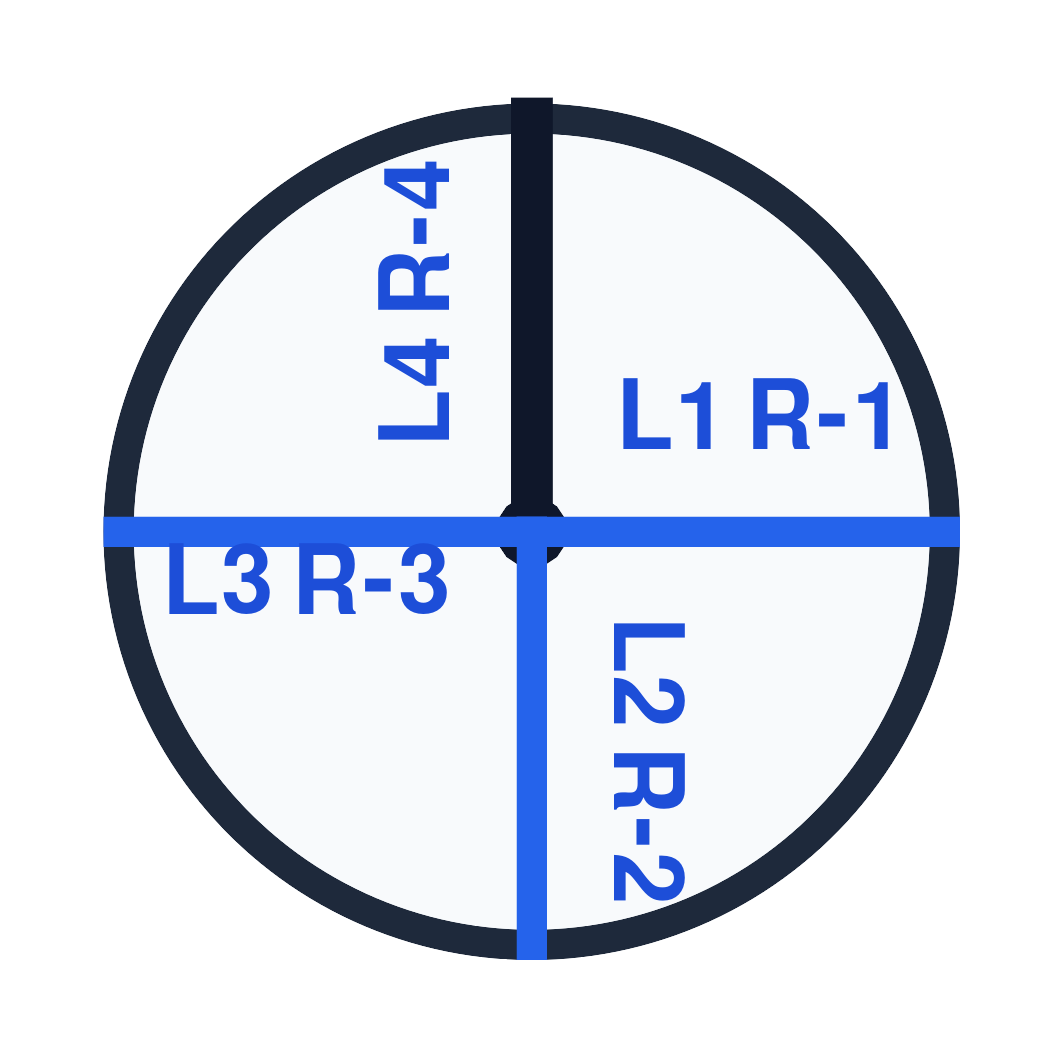
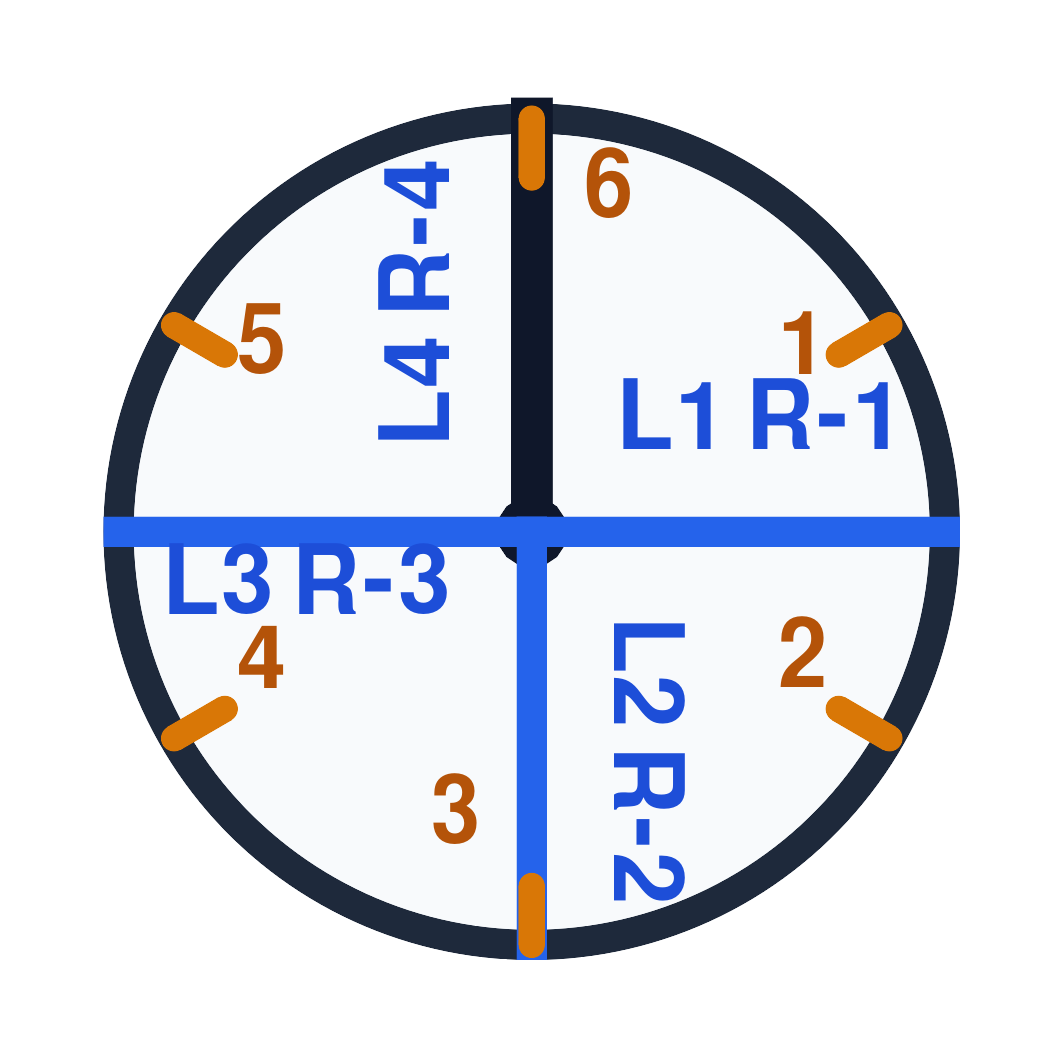
Apply rules updates: throw distance min(d6, strength), throw damage equals throw strength, and thrown orientation d6*60 deg clockwise with spin template ticks

diff --git a/rules/combat_robotics_game.tex b/rules/combat_robotics_game.tex
@@ -497,6 +497,17 @@ Movement units are found on the straight movement template. Where an effect says
     \draw[line width=1.3pt, draw=arenaRed] (12.2, 3.1) -- ++(-90:1.8cm) node[below=1pt, font=\footnotesize\bfseries, text=arenaRed] {L2 R-2 (180$^\circ$)};
     \draw[line width=0.9pt, draw=accentBlue] (12.2, 3.1) -- ++(180:1.8cm) node[left=2pt, font=\footnotesize\bfseries, text=accentBlue] {L3 R-3 (270$^\circ$)};
 
+    % 60-degree ticks at edges with numbers 1 to 6 for thrown robot orientation
+    \foreach \d/\ang in {1/30, 2/-30, 3/-90, 4/-150, 5/150, 6/90} {
+      \draw[line width=1.1pt, draw=amberNote] (12.2, 3.1) ++(\ang:1.55cm) -- ++(\ang:0.25cm);
+    }
+    \node[font=\scriptsize\bfseries, text=amberNote] at ($(12.2, 3.1) + (30:1.35cm)$) {1};
+    \node[font=\scriptsize\bfseries, text=amberNote] at ($(12.2, 3.1) + (-30:1.35cm)$) {2};
+    \node[font=\scriptsize\bfseries, text=amberNote] at ($(12.2, 3.1) + (-105:1.40cm)$) {3};
+    \node[font=\scriptsize\bfseries, text=amberNote] at ($(12.2, 3.1) + (-150:1.35cm)$) {4};
+    \node[font=\scriptsize\bfseries, text=amberNote] at ($(12.2, 3.1) + (150:1.35cm)$) {5};
+    \node[font=\scriptsize\bfseries, text=amberNote] at ($(12.2, 3.1) + (75:1.40cm)$) {6};
+
     % Ghost Bot B at start (centered on disc)
     \node at (12.2, 3.1) [rotate=0, opacity=0.4] {\includegraphics[width=4.5cm]{images/mini_bot_ghost_wide_line.png}};
     % End Bot B rotated 180 deg (facing South, opacity allows markings to show through)
@@ -632,7 +643,7 @@ Essentially a pushing match between colliding chassis surfaces:
   \item Move along templates until contact.
   \item Displace the remainder of robot A's template to the end of robot B's template.
   \item Move both robots along the straight line from the initial contact point to the end of A's displaced template (a raised robot's motion does not contribute).
-  \item If a robot is pushed into a wall, it is thrown with throw strength equal to the remaining distance of the move. If its weapon contacts the wall, it loses all spin counters and takes feedback $\lfloor \frac{\text{weapon strength} + \text{throw strength}}{2} \rfloor$. Because it has already hit the wall, the robot immediately takes throw damage equal to the full throw strength.
+  \item If a robot is pushed into a wall, it is thrown with throw strength equal to the remaining distance of the move. If its weapon contacts the wall, it loses all spin counters and takes feedback $\lfloor \frac{\text{weapon strength} + \text{throw strength}}{2} \rfloor$. The robot takes throw damage equal to the throw strength.
   \item If the robots are still touching, both robots are moved back a full unit to separate them.
 \end{enumerate}
 
@@ -718,6 +729,7 @@ When weapons collide with an opponent's chassis or components:
 \begin{itemize}
   \item All weapons involved in the contact are assumed to hit, and they deal damage according to their damage level to the single outermost component contacted (damage does not penetrate inwards).
   \item Then both robots are thrown away from the contact. The base throw strength received is equal to the attack damage minus the absorption of the hit component (minimum 0). Any additions to throw strength are added after that.
+  \item Thrown distance is $\min(\text{d6}, \text{throw strength})$. Thrown robot orientation after active contact is decided by throwing a dice and rotating that many $60^\circ$ steps clockwise (using the numbered ticks on the rim of the Spin Disc template).
   \item Weapons receive feedback equal to half the combined attack strength in the contact. A weapon contacting an arena wall loses all spin counters and takes feedback $\lfloor \frac{\text{weapon strength} + \text{throw strength}}{2} \rfloor$.
   \item If after active contact the robots are still in contact, proceed with inertial contact.
 \end{itemize}
@@ -726,9 +738,9 @@ When weapons collide with an opponent's chassis or components:
 \begin{tabularx}{\textwidth}{l X}
   \textbf{Contact Type} & \textbf{Resolution Mechanism} \\
   \midrule
-  \textbf{Active Contact} & Weapon strikes component $\rightarrow$ Deals damage to outermost component contacted $\rightarrow$ Base throw strength equals attack damage minus absorption of hit component (min 0) plus additions $\rightarrow$ Weapons take feedback equal to half combined attack strength. If robots are still in contact, proceed with inertial contact. \\
+  \textbf{Active Contact} & Weapon strikes component $\rightarrow$ Deals damage to outermost component contacted $\rightarrow$ Base throw strength equals attack damage minus absorption of hit component (min 0) plus additions $\rightarrow$ Weapons take feedback equal to half combined attack strength $\rightarrow$ Thrown distance is $\min(\text{d6}, \text{strength}) \rightarrow$ Thrown robot orientation rotates d6 $\times 60^\circ$ clockwise $\rightarrow$ Throw damage equals throw strength. If robots are still in contact, proceed with inertial contact. \\
   \addlinespace[3pt]
-  \textbf{Inert Contact} & Pushing match $\rightarrow$ Displace remainder of A's template to end of B's $\rightarrow$ Move along straight line from contact to end of displaced template $\rightarrow$ Wall collision causes throw (takes full throw damage) $\rightarrow$ If still touching, move both back a full unit to separate them. \\
+  \textbf{Inert Contact} & Pushing match $\rightarrow$ Displace remainder of A's template to end of B's $\rightarrow$ Move along straight line from contact to end of displaced template $\rightarrow$ Wall collision causes throw (takes throw damage equal to throw strength) $\rightarrow$ If still touching, move both back a full unit to separate them. \\
 \end{tabularx}
 \end{summarybox}
 
@@ -742,9 +754,10 @@ When weapons collide with an opponent's chassis or components:
 
 \subsection{Throws \& Inversion}
 
-A robot that is thrown is moved a random amount (2d6) up to the throw strength away from the contact point along the center-to-center line and rotated by spinning the model.
+A robot that is thrown is moved a distance equal to $\min(\text{d6}, \text{throw strength})$ away from the contact point along the center-to-center line.
+Robot orientation after active contact is decided by throwing a dice and rotating that many $60^\circ$ steps clockwise (using the numbered ticks on the rim of the Spin Disc template).
 If the throw strength minus the thrown distance is greater than the flip value of the chassis, the robot is \textbf{inverted} (lower rolled distances represent high-arching vertical throws rather than horizontal displacement).
-After the throw, the thrown robot takes throw damage at a randomly chosen component equal to half the throw strength (rounding up). If the robot is thrown into a normal wall, it instead takes throw damage equal to the full throw strength.
+After the throw, the thrown robot takes throw damage at a randomly chosen component equal to the throw strength.
 If the robot is pushed or thrown into a marked \textbf{Hazard Wall}, it is \textbf{immediately knocked out}.
 The component is chosen randomly by dropping a die onto the robot and seeing which component it lands on.
 
@@ -773,7 +786,7 @@ The component is chosen randomly by dropping a die onto the robot and seeing whi
     % Thrown Bot B
     \node at (7.2, 4.4) [rotate=50] {\includegraphics[width=1.75cm]{images/mini_bot_ghost_triangle_line.png}};
     \draw[-{Stealth[length=2.5mm]}, line width=1.5pt, draw=accentBlue] (7.9, 3.9) arc (-40:120:0.6);
-    \node[font=\scriptsize\bfseries, text=accentBlue] at (8.3, 4.7) {Model Spin};
+    \node[font=\scriptsize\bfseries, text=accentBlue] at (8.3, 4.7) {d6 $\times 60^\circ$ Rotation};
 
     % PANEL 2: Hazard Wall Elimination
     \draw[fill=white, draw=boxBorder, line width=0.8pt, rounded corners=3pt] (10.2, 1.4) rectangle (16.2, 5.8);
@@ -904,9 +917,9 @@ to each component that supplies it, shared equally if there are multiple compone
 \begin{itemize}[leftmargin=*, itemsep=1.5pt, topsep=1pt, parsep=0pt]
   \item \textbf{Direct Weapon Damage:} Weapon strike damage applies only to the single outermost component hit; excess damage does not penetrate inwards (throw shock covers internals).
   \item \textbf{Damage Conditions:} Damage $\ge$ durability $\implies$ \textbf{Destroyed}. Damage $\ge \frac{1}{2}$ durability $\implies$ \textbf{Damaged}. Absorption reduces base throw strength received during attacks.
-  \item \textbf{Throw Damage:} Throw damage equals half the throw strength (rounding up), unless the robot hits a wall (which inflicts full throw strength).
+  \item \textbf{Throw Distance \& Damage:} Thrown distance is $\min(\text{d6}, \text{throw strength})$. Thrown robot orientation rotates d6 $\times 60^\circ$ clockwise. Throw damage is always equal to the throw strength.
   \item \textbf{Separation:} If robots are still touching after contact resolution, both robots are moved back a full unit to separate them.
-  \item \textbf{Wall Collisions:} Driving into a wall stops the robot without a throw, but any contacting weapon takes feedback $\lfloor \frac{\text{weapon strength}}{2} \rfloor$. Robots thrown into walls take throw damage equal to full throw strength. Robots pushed into walls are thrown with throw strength equal to remaining distance, take weapon feedback if a weapon hits the wall, and take throw damage equal to full throw strength.
+  \item \textbf{Wall Collisions:} Driving into a wall stops the robot without a throw, but any contacting weapon takes feedback $\lfloor \frac{\text{weapon strength}}{2} \rfloor$. Robots pushed into walls are thrown with throw strength equal to remaining distance, take weapon feedback if a weapon hits the wall, and take throw damage equal to throw strength.
   \item \textbf{Feedback Backward Propagation:} Reverse flow from component back into power/pressure suppliers, distributed equally (rounding up).
 \end{itemize}
 \end{summarybox}

diff --git a/playtest/engine/combat.py b/playtest/engine/combat.py
@@ -944,15 +944,15 @@ def resolve_inert_contact(
 
             logs.append(CombatLogEntry(
                 round=round_num, phase="collision",
-                message=f"💥 {pushed_into_wall_robot.name} was pushed into the wall! THROWN with throw strength {wall_throw_str}! (Takes full throw damage {wall_throw_str})",
+                message=f"💥 {pushed_into_wall_robot.name} was pushed into the wall! THROWN with throw strength {wall_throw_str}! (Takes throw damage {wall_throw_str})",
             ))
             shock_cid = simulate_dropping_card(pushed_into_wall_robot)
             if shock_cid:
                 resolve_feedback_propagation(pushed_into_wall_robot, shock_cid, wall_throw_str, phase="wall_feedback", steps=steps)
 
             # Execute throw away from wall towards arena center
-            roll_2d6 = random.randint(1, 6) + random.randint(1, 6)
-            thrown_units = min(wall_throw_str, roll_2d6)
+            roll_d6 = random.randint(1, 6)
+            thrown_units = min(wall_throw_str, roll_d6)
             displacement_mm = thrown_units * DRIVE_UNIT_MM
             dx = 400.0 - pushed_into_wall_robot.pose.x
             dy = 400.0 - pushed_into_wall_robot.pose.y
@@ -964,8 +964,13 @@ def resolve_inert_contact(
 
             pushed_into_wall_robot.pose.x += nx * displacement_mm
             pushed_into_wall_robot.pose.y += ny * displacement_mm
-            spin_rot = random.choice([45.0, 90.0, 135.0, 180.0])
+            orientation_roll = random.randint(1, 6)
+            spin_rot = orientation_roll * 60.0
             pushed_into_wall_robot.pose.theta = (pushed_into_wall_robot.pose.theta + spin_rot) % 360.0
+            logs.append(CombatLogEntry(
+                round=round_num, phase="collision",
+                message=f"🧭 Thrown orientation: {pushed_into_wall_robot.name} rolled {orientation_roll} -> rotated {int(spin_rot)}° clockwise (now {pushed_into_wall_robot.pose.theta:.0f}°).",
+            ))
 
             eff_flip = pushed_into_wall_robot.flip_strength // 2 if pushed_into_wall_robot.is_raised else pushed_into_wall_robot.flip_strength
             excess_throw = wall_throw_str - thrown_units
@@ -1320,8 +1325,8 @@ def resolve_collision_combat(
             if throw_str <= 0:
                 continue
 
-            roll_2d6 = random.randint(1, 6) + random.randint(1, 6)
-            thrown_units = min(throw_str, roll_2d6)
+            roll_d6 = random.randint(1, 6)
+            thrown_units = min(throw_str, roll_d6)
             displacement_mm = thrown_units * DRIVE_UNIT_MM
 
             # Vector away from contact point
@@ -1346,12 +1351,14 @@ def resolve_collision_combat(
 
             robot.pose.x = max(WALL_LEFT + 20, min(WALL_RIGHT - 20, target_x))
             robot.pose.y = max(WALL_TOP + 20, min(WALL_BOTTOM - 20, target_y))
-            # Model rotated by spinning
-            spin_rot = random.choice([45.0, 90.0, 135.0, 180.0])
+
+            # Robot orientation after active contact: decided by throwing a dice and rotating that many 60 degree steps clockwise (only applies to thrown robots)
+            orientation_roll = random.randint(1, 6)
+            spin_rot = orientation_roll * 60.0
             robot.pose.theta = (robot.pose.theta + spin_rot) % 360.0
 
-            # Throw damage rule: half throw strength (rounding up) unless robot hits a wall (full throw strength)
-            throw_dmg = throw_str if hit_wall else ((throw_str + 1) // 2)
+            # Throw damage rule: always equal to throw strength
+            throw_dmg = throw_str
 
             if hit_wall:
                 # Check marked Hazard Wall knockout
@@ -1364,15 +1371,20 @@ def resolve_collision_combat(
                     ))
                 logs.append(CombatLogEntry(
                     round=round_num, phase="collision",
-                    message=f"🚀 {robot.name} is THROWN into a WALL! (Strength {throw_str}, 2d6 Roll {roll_2d6} -> hit wall, takes full throw damage {throw_dmg})",
+                    message=f"🚀 {robot.name} is THROWN into a WALL! (Strength {throw_str}, d6 Roll {roll_d6} -> hit wall, takes throw damage {throw_dmg})",
                 ))
                 w_wall_logs = resolve_weapon_wall_contact(robot, throw_strength=throw_str, round_num=round_num, phase="collision", steps=steps)
                 logs.extend(w_wall_logs)
             else:
                 logs.append(CombatLogEntry(
                     round=round_num, phase="collision",
-                    message=f"🚀 {robot.name} is THROWN! (Strength {throw_str}, 2d6 Roll {roll_2d6} -> {thrown_units} units / {displacement_mm:.0f}mm away, takes half throw damage {throw_dmg})",
+                    message=f"🚀 {robot.name} is THROWN! (Strength {throw_str}, d6 Roll {roll_d6} -> {thrown_units} units / {displacement_mm:.0f}mm away, takes throw damage {throw_dmg})",
                 ))
+
+            logs.append(CombatLogEntry(
+                round=round_num, phase="collision",
+                message=f"🧭 Thrown orientation: {robot.name} rolled {orientation_roll} -> rotated {int(spin_rot)}° clockwise (now {robot.pose.theta:.0f}°).",
+            ))
 
             # Flip check: if throw strength - thrown distance > flip value of chassis
             eff_flip = robot.flip_strength // 2 if robot.is_raised else robot.flip_strength

diff --git a/playtest/tests/test_playtest_engine.py b/playtest/tests/test_playtest_engine.py
@@ -797,10 +797,11 @@ class TestPlaytestEngine(unittest.TestCase):
         # Invert the robot
         bot.is_inverted = True
 
-        # Destroy invertible wheels so drive is 0 while inverted
+        # Make wheels non-invertible so drive is 0 while inverted
         for comp in bot.components.values():
-            if "invertible" in comp.keywords.lower():
-                comp.is_destroyed = True
+            if comp.is_invertible:
+                comp.is_invertible = False
+                comp.keywords = ""
 
         from playtest.engine.combat import refresh_robot_drive_and_power
         refresh_robot_drive_and_power(bot)
@@ -908,22 +909,24 @@ class TestPlaytestEngine(unittest.TestCase):
             r2_active_hit=False,
         )
 
-        # Case 1: Thrown clear of wall -> takes half throw damage rounding up: ceil(5 / 2) = 3
-        with patch("random.randint", return_value=1): # 1+1 = 2 roll
+        # Case 1: Thrown clear of wall -> takes throw damage equal to full throw strength (5)
+        with patch("random.randint", return_value=2): # d6 roll = 2
             logs = resolve_collision_combat(col, p_bot, a_bot, round_num=1)
             thrown_logs = [l.message for l in logs if "THROWN" in l.message]
-            self.assertTrue(any("takes half throw damage 3" in msg for msg in thrown_logs))
+            self.assertTrue(any("takes throw damage 5" in msg for msg in thrown_logs))
+            self.assertTrue(any("rolled 2 -> rotated 120° clockwise" in l.message for l in logs))
 
-        # Case 2: Thrown near wall (target lands <= 20mm from wall) -> takes full throw damage (5)
+        # Case 2: Thrown near wall (target lands <= 20mm from wall) -> takes throw damage equal to full throw strength (5)
         # Position victim close to top wall (y=25) so thrown displacement hits the wall
         a_bot.pose = Pose(x=400.0, y=25.0, theta=180.0)
         p_bot.pose = Pose(x=400.0, y=50.0, theta=0.0)
         col.contact_point = (400.0, 45.0)
         w_comp.is_active = True
-        with patch("random.randint", return_value=3): # 3+3 = 6 roll
+        with patch("random.randint", return_value=3): # d6 roll = 3
             logs_wall = resolve_collision_combat(col, p_bot, a_bot, round_num=1)
             wall_logs = [l.message for l in logs_wall if "THROWN into a WALL" in l.message]
-            self.assertTrue(any("takes full throw damage 5" in msg for msg in wall_logs))
+            self.assertTrue(any("takes throw damage 5" in msg for msg in wall_logs))
+            self.assertTrue(any("rolled 3 -> rotated 180° clockwise" in l.message for l in logs_wall))
 
     def test_active_contact_still_in_contact_proceeds_to_inertial(self):
         from playtest.engine.combat import resolve_collision_combat
@@ -1395,10 +1398,9 @@ class TestPlaytestEngine(unittest.TestCase):
         self.assertTrue(armor_comp.is_destroyed)
 
         # 2. Connected internal components do NOT take excess weapon damage
+        weapon_damage_cids = {s.target_cid for s in steps if s.phase == "damage"}
         for nid in connected_to_armor:
-            ncomp = p_bot.components[nid]
-            self.assertFalse(ncomp.is_destroyed, f"{ncomp.name} should not be destroyed by weapon damage")
-            self.assertFalse(ncomp.is_damaged, f"{ncomp.name} should not be damaged by weapon damage")
+            self.assertNotIn(nid, weapon_damage_cids, f"Component #{nid} should not take excess weapon damage")
 
         # 3. Only 1 damage step for player (no inward damage steps)
         p_damage_steps = [s for s in steps if s.robot_id == p_bot.id and s.phase == "damage"]
@@ -2172,10 +2174,12 @@ class TestPlaytestEngine(unittest.TestCase):
         self.assertAlmostEqual(p_bot.pose.x, 135.0, places=1)
 
         # Verify weapon contacted wall: lost all spin counters and suffered feedback
-        self.assertEqual(p_bot.weapon_spin_counters[w_id], 0)
-        self.assertEqual(w_comp.spin_counters, 0)
         wall_logs = [e.message for e in match.log if "contacted the wall" in e.message]
         self.assertTrue(len(wall_logs) > 0, "Driving weapon into wall should log contact and feedback")
+        self.assertTrue(any("Lost all spin counters (was 4)" in msg for msg in wall_logs))
+        # At start of round 2, undamaged active weapon spins up 1 counter
+        self.assertEqual(p_bot.weapon_spin_counters[w_id], 1)
+        self.assertEqual(w_comp.spin_counters, 1)
 
     def test_physical_curve_templates_trajectory(self):
         """Tests that consolidated physical curve templates generate trajectories matching exact angles."""

diff --git a/generate_movement_templates.py b/generate_movement_templates.py
@@ -312,6 +312,39 @@ class MovementTemplate:
                 f'<line x1="{cx:.1f}" y1="{cy:.1f}" x2="{cx - radius:.1f}" y2="{cy:.1f}" stroke="#2563eb" stroke-width="2.5" stroke-linecap="square" />'
             )
 
+            # 60-degree ticks at edges with numbers 1 to 6 (for thrown robot orientation)
+            tick_len = 5.0
+            label_dist = 8.5
+            for i in range(1, 7):
+                ang = i * 60
+                rad = math.radians(ang)
+                # Outer point at the rim of template
+                x2 = cx + radius * math.sin(rad)
+                y2 = cy - radius * math.cos(rad)
+                # Inner tick point
+                x1 = cx + (radius - tick_len) * math.sin(rad)
+                y1 = cy - (radius - tick_len) * math.cos(rad)
+                # Tick line in distinct amber
+                svg_parts.append(
+                    f'<line x1="{x1:.1f}" y1="{y1:.1f}" x2="{x2:.1f}" y2="{y2:.1f}" '
+                    f'stroke="#d97706" stroke-width="2.2" stroke-linecap="round" />'
+                )
+                # Label positioning: offset slightly from baseline/south lines for i=3 and i=6
+                if i == 3:
+                    xl = cx - 6.5
+                    yl = cy + (radius - label_dist)
+                elif i == 6:
+                    xl = cx + 6.5
+                    yl = cy - (radius - label_dist)
+                else:
+                    xl = cx + (radius - label_dist) * math.sin(rad)
+                    yl = cy - (radius - label_dist) * math.cos(rad)
+                svg_parts.append(
+                    f'<g transform="translate({xl:.1f}, {yl:.1f})">'
+                    f'<text x="0" y="0" font-family="sans-serif" font-size="7.5" font-weight="bold" '
+                    f'fill="#b45309" text-anchor="middle" dominant-baseline="central">{i}</text></g>'
+                )
+
             # Labels placed ON the template in each quadrant, angled to line up with the end line
             # l = 1: along East line, inside top-right quadrant
             svg_parts.append(
@@ -675,7 +708,8 @@ def generate_rulebook_preview_svg(
     <!-- Spin notes -->
     <text x="441" y="785" font-size="15" font-weight="bold" text-anchor="middle">Spin on Spot</text>
     <text x="441" y="805" font-size="12" fill="#64748b" text-anchor="middle">Rotate on center (4 increments)</text>
-    <text x="441" y="822" font-size="10.5" fill="#94a3b8" text-anchor="middle">&gt;4: Spin 360° then use remainder</text>
+    <text x="441" y="820" font-size="10.5" fill="#94a3b8" text-anchor="middle">&gt;4: Spin 360° then use remainder</text>
+    <text x="441" y="836" font-size="10" fill="#b45309" text-anchor="middle">Thrown orientation: d6 ticks (1-6)</text>
 
     <!-- Pivot notes -->
     <text x="722" y="785" font-size="15" font-weight="bold" text-anchor="middle">Pivot Fan</text>

diff --git a/scripts/generate_rules_diagrams.py b/scripts/generate_rules_diagrams.py
@@ -988,7 +988,7 @@ def generate_active_contact(output_path: Path) -> None:
         arrowprops=dict(arrowstyle="->", color=AMBER_NOTE, lw=3.0, mutation_scale=15),
         zorder=12
     )
-    ax1.text(cx + 70, cy + 42, "Throw Vector B\n(2d6 up to Throw Str)", fontsize=8, fontweight="bold", color=AMBER_NOTE, ha="center")
+    ax1.text(cx + 70, cy + 42, "Throw Vector B\n(min(d6, Throw Str))", fontsize=8, fontweight="bold", color=AMBER_NOTE, ha="center")
 
     ax1.text(
         10, 22,
@@ -1016,7 +1016,7 @@ def generate_active_contact(output_path: Path) -> None:
     draw_robot(ax2, 185, 80, -90, chassis="Triangle", color=LIGHT_BLUE, name="A", weapon="Bar")
     ax2.plot(208, 80, "*", color=CRIMSON, markersize=14, zorder=15)
     ax2.text(
-        165, 45, "WALL HIT!\nFull Throw Shock\nFeedback",
+        165, 45, "WALL HIT!\nThrow Shock\nFeedback",
         fontsize=7.5, fontweight="bold", color=CRIMSON, ha="center",
         bbox=dict(boxstyle="round,pad=0.2", facecolor="#FEF2F2", edgecolor=CRIMSON)
     )

diff --git a/scripts/simulate_combat.py b/scripts/simulate_combat.py
@@ -484,7 +484,7 @@ def simulate_throw_shock(
     """
     Simulates throw shock damage at each component on the robot.
     Rules:
-      - Throw damage equals half throw strength (rounding up), unless thrown into a wall (full throw strength).
+      - Throw damage equals throw strength.
       - Base throw strength received is attack damage minus absorption of hit component (minimum 0).
       - Wedge components have double absorption against weapon contact.
     """
@@ -499,7 +499,7 @@ def simulate_throw_shock(
     else:
         base_throw = throw_strength
 
-    eff_throw = base_throw if is_wall_collision else (base_throw + 1) // 2
+    eff_throw = base_throw
     outcomes: Dict[str, List[DamageStepResult]] = {}
 
     if eff_throw <= 0:
